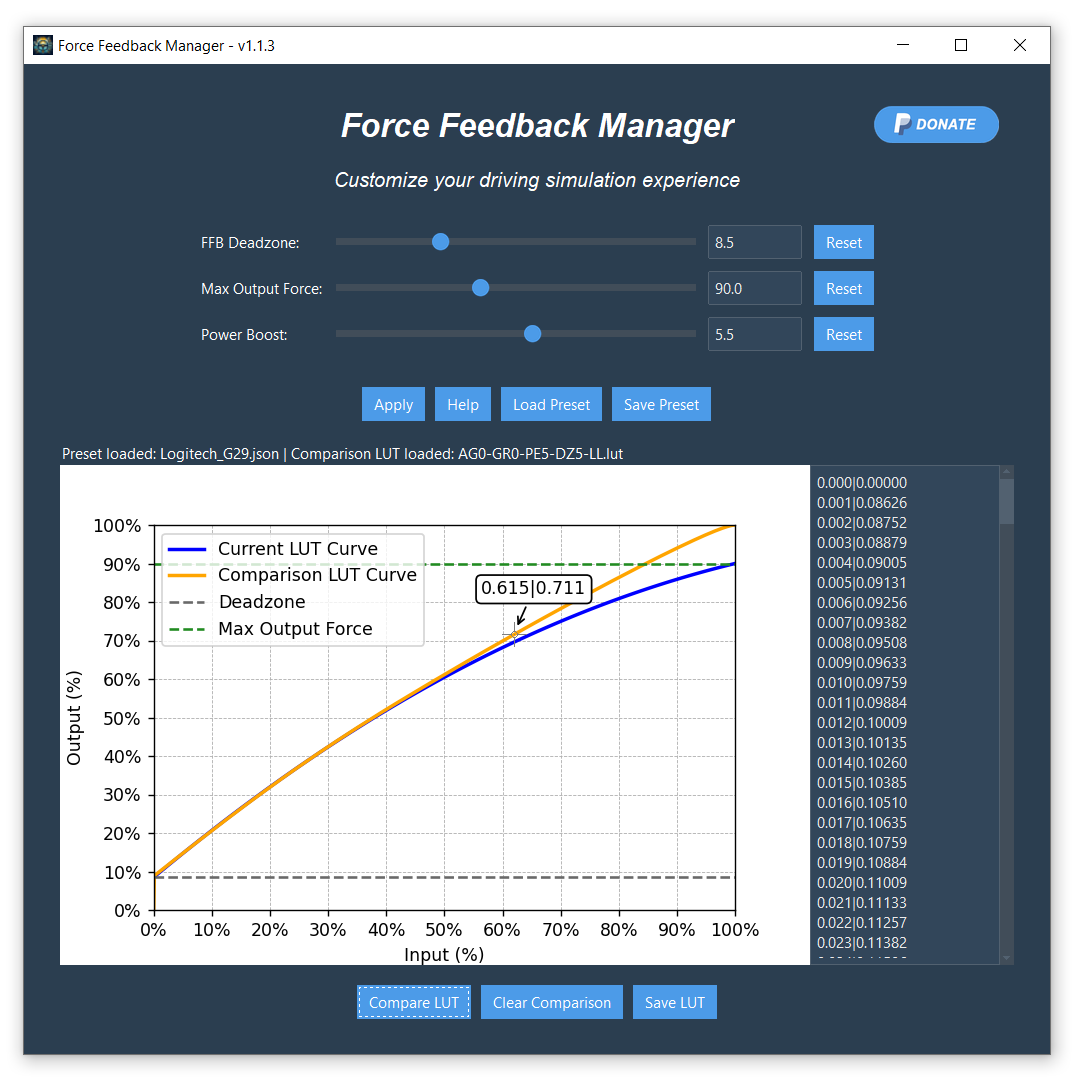
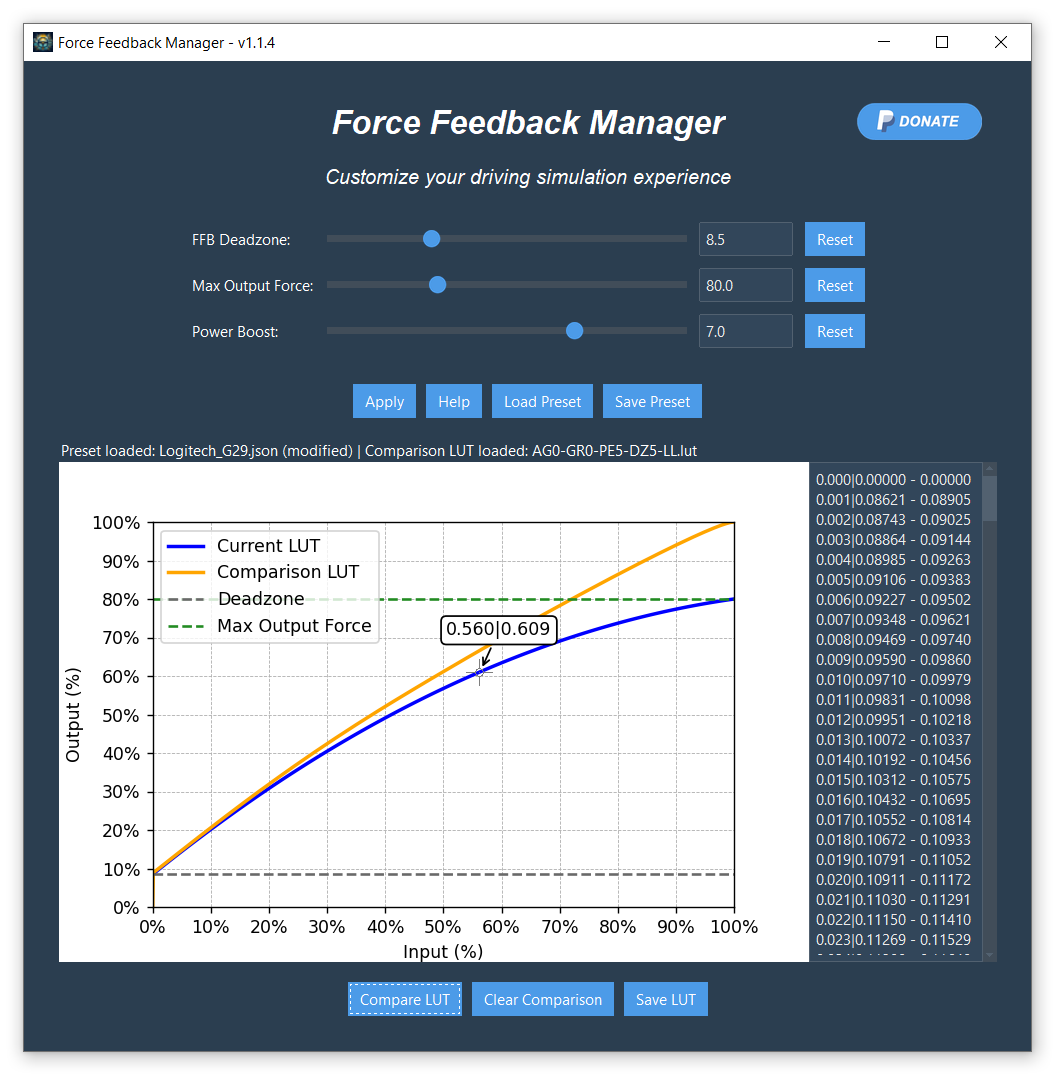
feat: added comparison lut values

diff --git a/src/ForceFeedbackManager.py b/src/ForceFeedbackManager.py
@@ -82,7 +82,7 @@ class ForceFeedbackManagerApp:
     def __init__(self, root):
         """Initialize the application."""
         self.root = root
-        self.version = "v1.1.3"
+        self.version = "v1.1.4"
         self.title_string = "Force Feedback Manager - " + self.version
         self.root.title(self.title_string)
         self.compare_lut = None
@@ -170,16 +170,16 @@ class ForceFeedbackManagerApp:
         self.canvas = FigureCanvasTkAgg(self.figure, master=chart_lut_frame)
         self.canvas.get_tk_widget().pack(side=tk.LEFT, fill=tk.BOTH, expand=True)
         self.update_chart()
-        
-        # Text output for LUT with scrollbar
+
+        # Text output for LUT with comparison option and related scrollbar
         self.lut_frame = ttk.Frame(chart_lut_frame)
         self.lut_frame.pack(side=tk.RIGHT, fill=tk.BOTH, expand=True)
-        self.lut_output = tk.Text(self.lut_frame, height=10, width=22)
-        self.lut_output.pack(side=tk.LEFT, fill=tk.BOTH, expand=True)
-        self.scrollbar = ttk.Scrollbar(self.lut_frame, orient=tk.VERTICAL, command=self.lut_output.yview)
+        self.combined_output = tk.Text(self.lut_frame, height=10, width=20, state=tk.DISABLED)
+        self.combined_output.pack(side=tk.LEFT, fill=tk.BOTH, expand=True)
+        self.scrollbar = ttk.Scrollbar(self.lut_frame, orient=tk.VERTICAL, command=self.combined_output.yview)
         self.scrollbar.pack(side=tk.RIGHT, fill=tk.Y)
-        self.lut_output.config(yscrollcommand=self.scrollbar.set)
-        
+        self.combined_output.config(yscrollcommand=self.scrollbar.set)
+
         # Frame to hold the buttons
         final_button_frame = ttk.Frame(mainframe)
         final_button_frame.grid(row=row, column=0, columnspan=3, pady=20)
@@ -280,15 +280,49 @@ class ForceFeedbackManagerApp:
             self.compare_lut_name = os.path.basename(file_path)
             self.compare_lut_modified = True
             self.update_status_label()
-            self.update_chart(compare_lut=self.compare_lut)
+            self.update_combined_output()
+            self.update_chart()
 
     def clear_comparison(self):
         """Clear the comparison LUT curve."""
         self.compare_lut = None
         self.compare_lut_name = None
-        self.update_chart()
         self.compare_lut_modified = False
         self.update_status_label()
+        self.update_combined_output()
+        self.update_chart()
+
+    def update_combined_output(self):
+        """Update the combined LUT output with both current and comparison LUTs."""
+        self.combined_output.config(state=tk.NORMAL)
+        self.combined_output.delete(1.0, tk.END)
+
+        lut_points = {x: y for x, y in self.lut.points}
+        compare_points = {x: y for x, y in self.compare_lut.points} if self.compare_lut else None
+
+        combined_content = []
+        first_compare_y = 0.0
+
+        if compare_points:
+            first_compare_y = compare_points.get(0.0, 0.0)
+            combined_content.append(f"0.000|0.00000 - {first_compare_y:.5f}")
+        else:
+            combined_content.append("0.000|0.00000")
+        
+        previous_compare_y = first_compare_y
+        for x in sorted(lut_points.keys()):
+            if x == 0.000:
+                continue  # Skip the first value
+            current_y = lut_points[x]
+            if compare_points:
+                compare_y = compare_points.get(x, previous_compare_y)
+                previous_compare_y = compare_y
+                combined_content.append(f"{x:.3f}|{current_y:.5f} - {compare_y:.5f}")
+            else:
+                combined_content.append(f"{x:.3f}|{current_y:.5f}")
+        
+        self.combined_output.insert(tk.END, "\n".join(combined_content))
+        self.combined_output.config(state=tk.DISABLED)
 
     def save_preset(self):
         """Save the current slider values to a preset file."""
@@ -436,27 +470,17 @@ class ForceFeedbackManagerApp:
         variable.set(rounded_value)
         self.update_chart()
 
-    def apply_correction(self, event=None):  # Add event=None to allow calling without event
+    def apply_correction(self, event=None):
         """Apply the deadzone and max output values to generate the LUT."""
         lut_size = 1000
-        # Values check
         self.deadzone_value.set(limit_value(self.deadzone_value.get(), self.deadzone_min, self.deadzone_max))
         self.max_output_value.set(limit_value(self.max_output_value.get(), self.max_output_min, self.max_output_max))
         self.power_boost_value.set(limit_value(self.power_boost_value.get(), self.power_boost_min, self.power_boost_max))
-        # Get values
         deadzone = self.deadzone_value.get()
         max_output = self.max_output_value.get()
         power_boost = self.power_boost_value.get()
-
-        # Generate the LUT
-        lut = generateCustomLut(lut_size, deadzone, max_output, power_boost)
-        self.lut_output.delete(1.0, tk.END)
-        # Insert "0.000|0.00000" as first row
-        self.lut_output.insert(tk.END, "0.000|0.00000\n")
-
-        # Write the rest of the LUT
-        lut_content = str(lut).split("\n")[1:]
-        self.lut_output.insert(tk.END, "\n".join(lut_content))
+        self.lut = generateCustomLut(lut_size, deadzone, max_output, power_boost)
+        self.update_combined_output()
         self.update_chart()
 
     def create_tooltip(self, event):
@@ -487,7 +511,7 @@ class ForceFeedbackManagerApp:
         x_vals = [x for x, y in lut.points]
         y_vals = [y for x, y in lut.points]
         
-        self.ax.plot(x_vals, y_vals, label='Current LUT Curve', color='blue', linewidth=2)
+        self.ax.plot(x_vals, y_vals, label='Current LUT', color='blue', linewidth=2)
         
         # Find the intersection point of the LUT curve with the y-axis
         intersection_y = next((y for x, y in lut.points if x == 0), 0)
@@ -496,7 +520,7 @@ class ForceFeedbackManagerApp:
         if self.compare_lut_modified and hasattr(self, 'compare_lut') and self.compare_lut:
             compare_x_vals = [x for x, y in self.compare_lut.points]
             compare_y_vals = [y for x, y in self.compare_lut.points]
-            self.ax.plot(compare_x_vals, compare_y_vals, label='Comparison LUT Curve', color='orange', linewidth=2)
+            self.ax.plot(compare_x_vals, compare_y_vals, label='Comparison LUT', color='orange', linewidth=2)
         
         # Add horizontal line for deadzone
         if deadzone > 0.0:
@@ -539,15 +563,15 @@ class ForceFeedbackManagerApp:
         
     def save_lut(self):
         """Save the LUT to a file."""
-        # Apply the current settings before saving
         self.apply_correction()
         
-        # Ensure the first line is always "0.000, 0.0000"
-        lut_content = self.lut_output.get(1.0, tk.END)
+        lut_content = ["0.000|0.00000"]  # First value
+        lut_content += [f"{x:.3f}|{y:.5f}" for x, y in self.lut.points if x != 0.000]
+
         file_path = filedialog.asksaveasfilename(defaultextension=".lut", filetypes=[("LUT files", "*.lut"), ("All files", "*.*")])
         if file_path:
             with open(file_path, "w") as file:
-                file.write(lut_content)
+                file.write("\n".join(lut_content))
             self.saved_lut_name = os.path.basename(file_path)
             self.update_status_label()
             self.show_donation_popup()
@@ -564,7 +588,8 @@ class ForceFeedbackManagerApp:
             self.compare_lut_name = os.path.basename(file_path)
             self.compare_lut_modified = True
             self.update_status_label()
-            self.update_chart(compare_lut=self.compare_lut)
+            self.update_combined_output()
+            self.update_chart()
 
     def is_preset_modified(self):
         """Check if the current preset values have been modified."""
